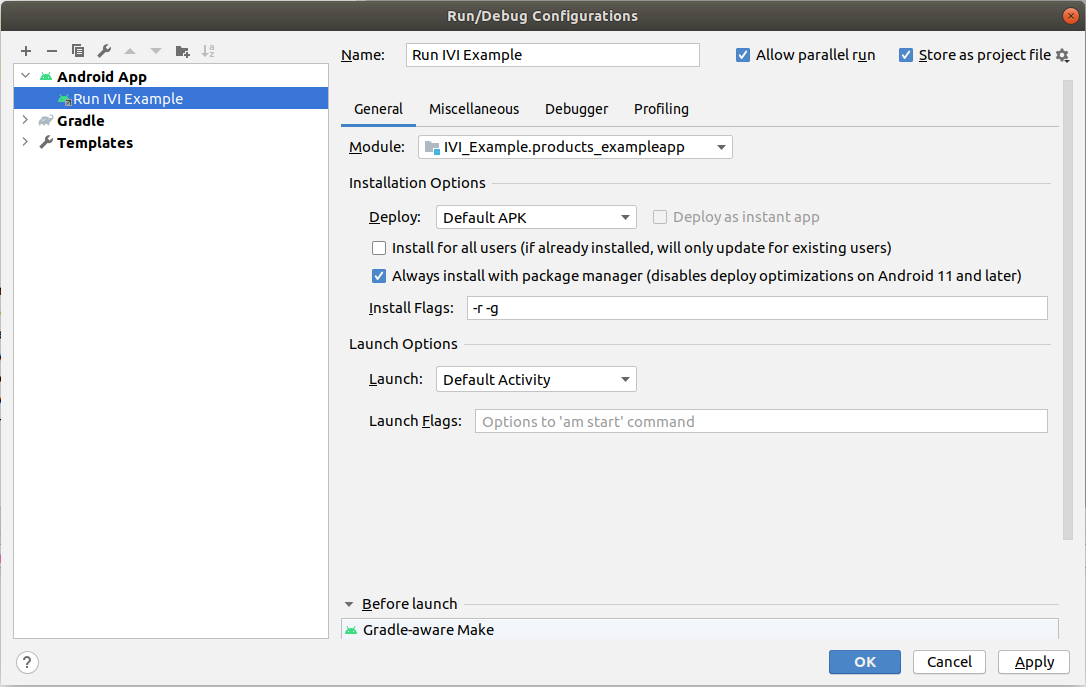
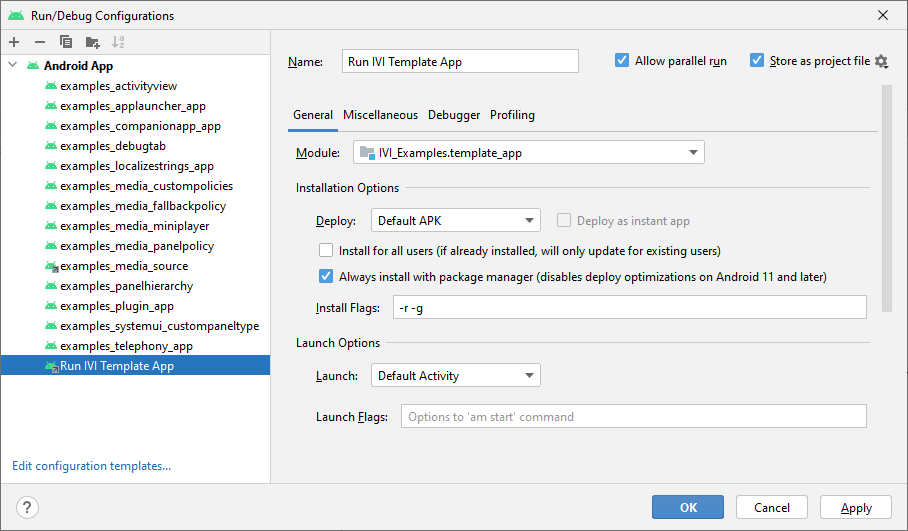
Merged PR 23087: IVI-7370: Template app and example apps
On the portal pages, make a distinction between the template app and the example apps.
Also update the screen captures to show the template app.

diff --git a/docs/portal/src/documentation/platform-overview/example-apps.md b/docs/portal/src/documentation/platform-overview/example-apps.md
@@ -2,24 +2,31 @@
 title: Example Apps
 ---
 
-The TomTom IndiGO SDK comes with a set of example applications, each one of them containing the
+The TomTom IndiGO SDK comes with a template application and a set of example applications.
+
+The template application demonstrates the
 [_off-the-shelf_](/tomtom-indigo/documentation/development/introduction#off-the-shelf-components-or-stock-components)
-functionality of the TomTom IndiGO platform. They also contain the source code that goes with the
-tutorials, to get you started with developing for TomTom IndiGO.
+functionality of the TomTom IndiGO platform. This can be a good starting point for your own
+application, where you implement your features and customizations.
+
+The example applications help you to get started with developing for TomTom IndiGO. These
+applications are introduced in the
+[Example apps](#example-apps) section, and explained in more detail in the
+[Tutorials and Examples](/tomtom-indigo/documentation/tutorials-and-examples/overview) section.
 
 ## Off-the-shelf functionality
 
-The TomTom IndiGO example applications integrate all the
+The TomTom IndiGO template application integrates all the
 [_off-the-shelf_](/tomtom-indigo/documentation/development/introduction#off-the-shelf-components-or-stock-components)
-functionality implemented for the TomTom IndiGO platform. It is a fully working infotainment 
-system, including navigation, a media center, phone calling, messaging and much more. In the 
+functionality implemented for the TomTom IndiGO platform. It is a fully working infotainment
+system, including navigation, a media center, phone calling, messaging and much more. In the
 source code the _off-the-shelf functionality_ is often referred to as _stock functionality_.
 
-This walk-through of IndiGO platform functionality is using the plugin example, which can be found 
-in `examples/plugin/app`.
+This walk-through of IndiGO platform functionality is using the template application, which can be found
+in the `template/app` directory.
 
-The default view, when starting an application, looks like this. The map view will be
-different depending on your current location.
+The default view, when starting the application, looks like this. The map view will be different
+depending on your current location.
 
 ![start view](images/tomtom-indigo_amsterdam_map.png)
 
@@ -49,15 +56,15 @@ And here we have the same route, with the map in 3D mode instead.
 
 ### Media
 
-The media application in TomTom IndiGO, provides a framework for browsing and controlling audio
-content provided by third-party sources. The source view in the media application lists all the
+The media application in TomTom IndiGO provides a framework for browsing and controlling audio
+content, provided by third-party sources. The source view in the media application lists all the
 currently available media sources on the device. You can see iHeartRADIO as a 3rd party source on
 the device, and a paired mobile phone for BT audio streaming.
 
 ![media source selection](images/media_source_selection.png)
 
-Each source makes use of the same playback controls, which show the currently playing content at
-the same location of the screen. The user can therefore control what is playing, regardless of
+Each media source makes use of the same playback controls, which show the currently playing content
+at the same location of the screen. The user can therefore control what is playing, regardless of
 whether the user is browsing (other) media content, or not.
 
 ![iHeartRADIO](images/media_iheartradio.png)
@@ -77,7 +84,7 @@ providing functionality for many common HVAC requirements. This can be used as s
 implement additional functionality for the relevant car model. The reference implementation is
 wired up to the Vehicle Hardware Abstraction Layer (VHAL) in the Android Automotive platform.
 
-The reference application can be launched by touching the climate control area in the status bar
+The reference implementation can be launched by touching the climate control area in the status bar
 at the bottom of the screen, called the _Climate Control Center_. The most common HVAC
 functionalities, like changing the temperature, can also be accessed through the Climate Control
 Center directly, without having to launch the application.
@@ -87,9 +94,9 @@ Center directly, without having to launch the application.
 ### Calls application
 
 The calls application in TomTom IndiGO, provides functionality to make and receive phonecalls
-through a mobile phone that is paired to TomTom IndiGO via Bluetooth. Once a mobile phone is 
-paired, the contact list will sync with the TomTom IndiGO IVI system. Then the contacts will be 
-accessible under the _Contacts_ tab, which allows the user to select a contact and make a 
+through a mobile phone that is paired to TomTom IndiGO via Bluetooth. Once a mobile phone is
+paired, the contact list will sync with the TomTom IndiGO IVI system. Then the contacts will be
+accessible under the _Contacts_ tab, which allows the user to select a contact and make a
 phonecall.
 
 ![calls contacts](images/calls_contacts.png)
@@ -113,10 +120,13 @@ Picture showing the placeholder for an app store:
 
 ![app store and launcher](images/app_store.png)
 
-### Example Apps specific functionality
+## Example Apps
 
-The example applications also contain code that shows how to implement and integrate specific
-functionality in the TomTom IndiGO platform. Each example is explained and documented in the
+The example applications have all the
+[_off-the-shelf_](/tomtom-indigo/documentation/development/introduction#off-the-shelf-components-or-stock-components)
+functionality of the template application. On top of this, they also contain code demonstrating how to
+implement and integrate specific functionality in the TomTom IndiGO platform. Each example is
+explained and documented in the
 [Tutorials and Examples](/tomtom-indigo/documentation/tutorials-and-examples/overview) section.
 
 For example, to get you started making your own TomTom IndiGO “application”, there are two examples
@@ -126,7 +136,7 @@ for the UI, along with an
 [IVI service](/tomtom-indigo/documentation/tutorials-and-examples/basics/create-an-ivi-service)
 to implement the logic.
 These two components together implement an example for displaying account details. The example is
-then replacing the default TomTom IndiGO user profile frontend, with the new functionality. The 
+then replacing the default TomTom IndiGO user profile frontend, with the new functionality. The
 source can be found in: `examples/plugin/app`.
 
 ![example: account](images/example_account.png)

diff --git a/docs/portal/src/releases/releases.md b/docs/portal/src/releases/releases.md
@@ -6,34 +6,46 @@ hideSubmenu: true
 
 Here you'll find all the TomTom IndiGO platform early-access releases.
 
-## Download the Example Application
+## Download the TomTom IndiGO SDK
 
-The latest Example Application can be downloaded from the TomTom IndiGO external binary repository, 
-using the credentials you received after signing the Evaluation Agreement (EA). To request access, 
-please go to the [Getting Started](/tomtom-indigo/documentation/getting-started/introduction) guide, and 
-"Register for early access".
+The latest TomTom IndiGO SDK can be downloaded from the TomTom IndiGO repository, using the
+credentials you received after signing the Evaluation Agreement. To request access, please go to the
+[Getting Started](/tomtom-indigo/documentation/getting-started/introduction) guide, and click
+[Register for early access](/tomtom-indigo/request-access).
 
-The Example Application contains the code needed to start developing for the TomTom IndiGO 
-platform, and contains Gradle files pointing to the binary artifacts of the release.
+The TomTom IndiGO SDK contains the code needed to start developing for the TomTom IndiGO platform.
+It contains the [template application](/tomtom-indigo/documentation/platform-overview/example-apps)
+that show-cases all the off-the-shelf features of the IndiGO platform. It also contains a set of
+[example applications](/tomtom-indigo/documentation/platform-overview/example-apps#example-apps)
+demonstrating how to implement your own features with the TomTom IndiGO platform.
 
-The credentials are also used to access the binary repository when compiling the TomTom IndiGO 
-application. More details can be found in the 
-[Getting Started](/tomtom-indigo/documentation/getting-started/introduction) guide.
+### TomTom IndiGO binary artefacts
 
-The first part of the version number `x.y.zzzz` refers to the TomTom IndiGO platform version the 
-Example Application uses. The second part `-pppp` is the version of the example application release.
+The template and example applications come with Gradle files to build them. The build process needs
+binary artefacts of the TomTom IndiGO platform, which are pulled from the TomTom binary artefact
+repository. This requires the same credentials that you used when downloading the SDK.
+For more details, see
+[accessing-the-artifact-repository](/tomtom-indigo/documentation/getting-started/accessing-the-artifact-repository).
 
-Once extracted, you will find these directories:
+### TomTom IndiGO SDK version number
+
+The TomTom IndiGO SDK version number has the format `x.y.zzzz-pppp`, where `x.y.zzzz` refers to the
+TomTom IndiGO platform version and `-pppp` is the version of the template and example applications.
+
+### TomTom IndiGO SDK content
+
+Once extracted, you will find the following files and directory:
 
 ```cmd
-examples/*.apk
-examples/products_indigo_examples-<version>-sources
+examples/products_indigo_examples-<version>-*.apk
+examples/products_indigo_examples-<version>-sources/
 ```
 
-The APKs can be run directly on hardware or in an Android Automotive emulator.
-You can also opt to build your own APK from the sources directory.
+The APK files contain the IndiGO Template Application and can be run directly on hardware or in an
+Android Automotive emulator. You can also opt to build your own APK from the sources directory.
 
-The README in the sources folder contains information related to the structure of the application.
+The `README.md` file in the sources folder contains information related to the structure of the
+application.
 
 ## Releases
 

diff --git a/docs/portal/src/documentation/getting-started/configuring-android-studio.md b/docs/portal/src/documentation/getting-started/configuring-android-studio.md
@@ -4,7 +4,9 @@ title: Configuring Android Studio
 
 To install the Android Studio IDE, follow the instructions from the
 [official Android guide](https://developer.android.com/studio/install).
-For TomTom IndiGO you will need Android Studio version Arctic Fox 2020.3.1 or newer.
+For TomTom IndiGO the recommended version is Android Studio version `Chipmunk | 2021.2.1` or newer.
+
+![Android Studio Splash screen](images/android_studio_splash_screen.png)
 
 If you already have this Android Studio version installed, you can proceed to section
 [Building with Android Studio](#building-with-android-studio).
@@ -28,7 +30,9 @@ hard-coded version of this plugin.
 ## Building with Android Studio
 
 This section explains how to configure Android Studio for building the
-[TomTom IndiGO example apps](/tomtom-indigo/documentation/platform-overview/example-apps).
+[TomTom IndiGO template app](/tomtom-indigo/documentation/platform-overview/example-apps)
+and the
+[TomTom IndiGO example apps](/tomtom-indigo/documentation/tutorials-and-examples/overview#example-applications).
 
 Install Android 11 (R) SDK:
 

diff --git a/README.md b/README.md
@@ -52,7 +52,7 @@ application (in the `template/` folder) is needed, see below.
   Example showing a hierarchy of panels, with breadcrumbs.
 
 - `examples/plugin/`
-  Examples demonstrating how to write plugins, both frontends and services, for the TomTom 
+  Examples demonstrating how to write plugins, both frontends and services, for the TomTom IndiGO
   platform.
 
 - `examples/telephony/`
@@ -67,8 +67,8 @@ to create a TomTom IndiGO application with all the default functionality from th
 
 The keys needed to sign the application with the same keys as the TomTom Indigo reference hardware 
 build (see 
-[Flashing the reference hardware](https://developer.tomtom.com/tomtom-indigo/documentation/integrating-tomtom-indigo/flashing-the-reference-hardware)
-) for more details on the reference hardware).
+[Flashing the reference hardware](https://developer.tomtom.com/tomtom-indigo/documentation/integrating-tomtom-indigo/flashing-the-reference-hardware))
+for more details on the reference hardware).
 
 ### `permissions/`
 

diff --git a/docs/portal/src/documentation/getting-started/frequently-asked-questions-faq.md b/docs/portal/src/documentation/getting-started/frequently-asked-questions-faq.md
@@ -276,7 +276,8 @@ package manager to handle installs:
   permissions requested in the manifest file (`-g`). See also the
   [ADB Package Manager](https://developer.android.com/studio/command-line/adb#pm) documentation.
 
-Configuration `Run IVI Example` as delivered with the SDK has these settings pre-configured.
+Configuration `Run IVI Template app` as delivered with the SDK has these settings pre-configured.
+For the example applications you can configure this yourself, if needed.
 
 ![Android Studio package manager](images/android_studio_package_manager.png)
 
